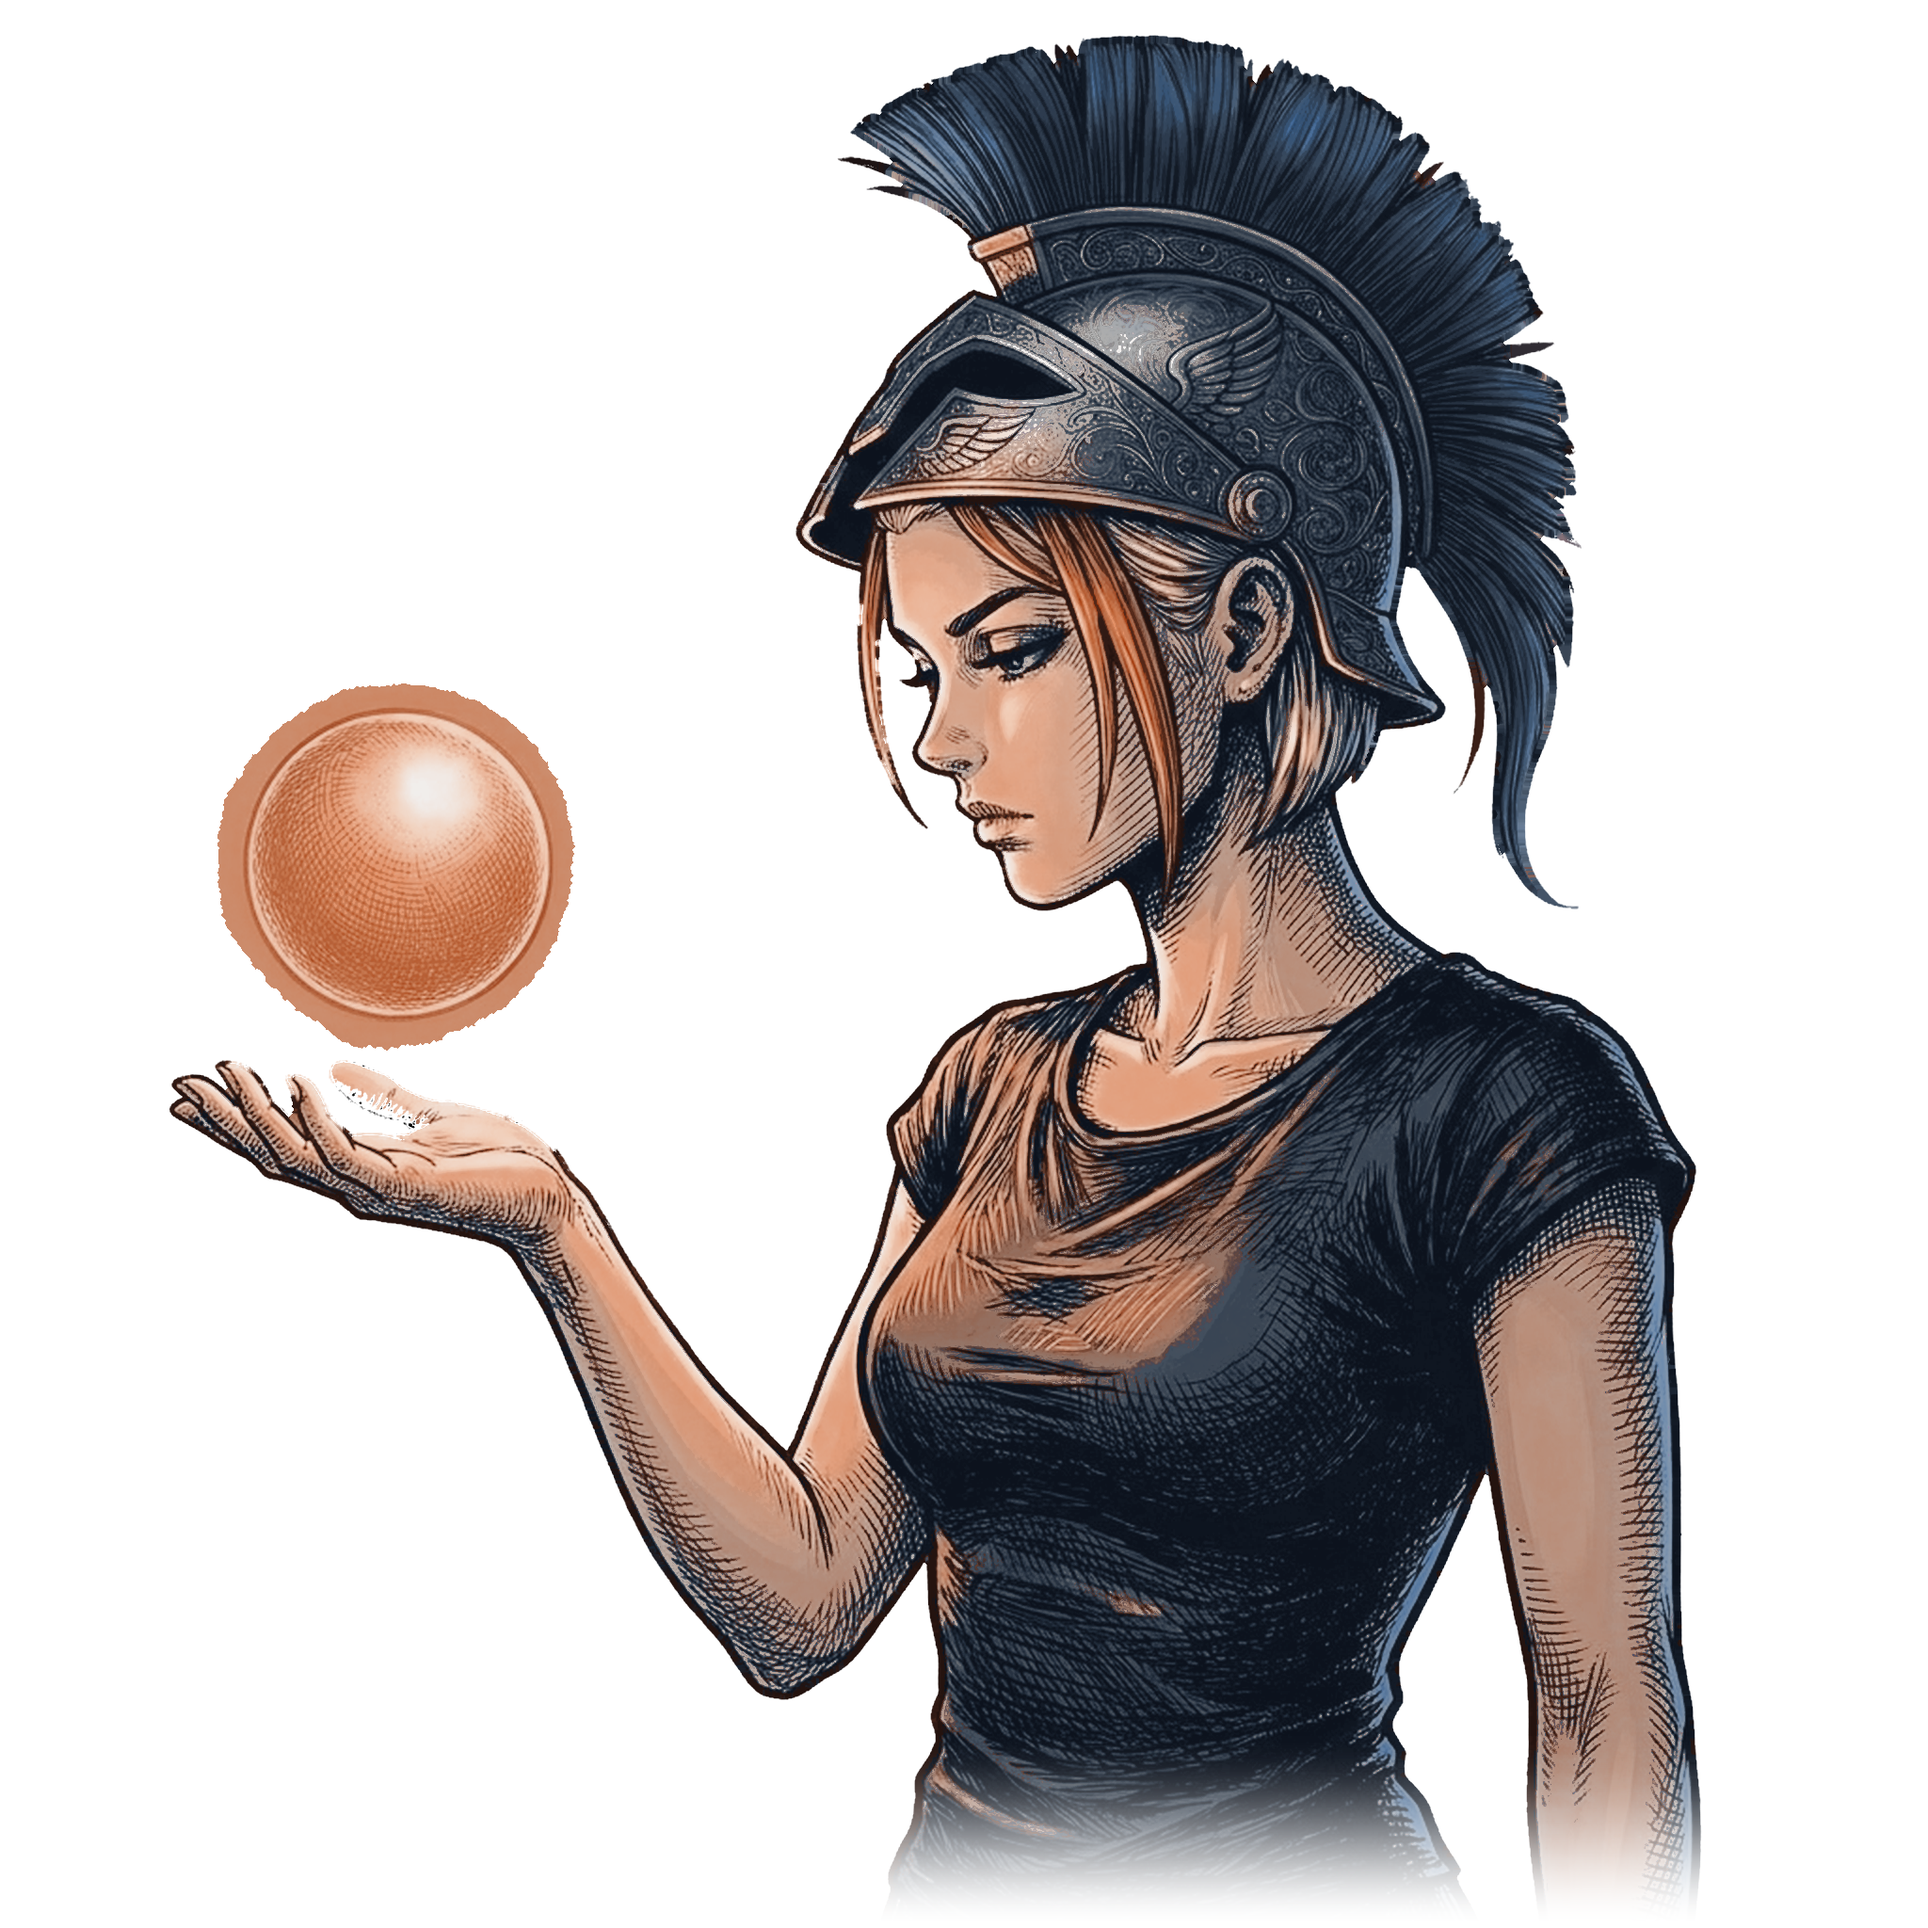
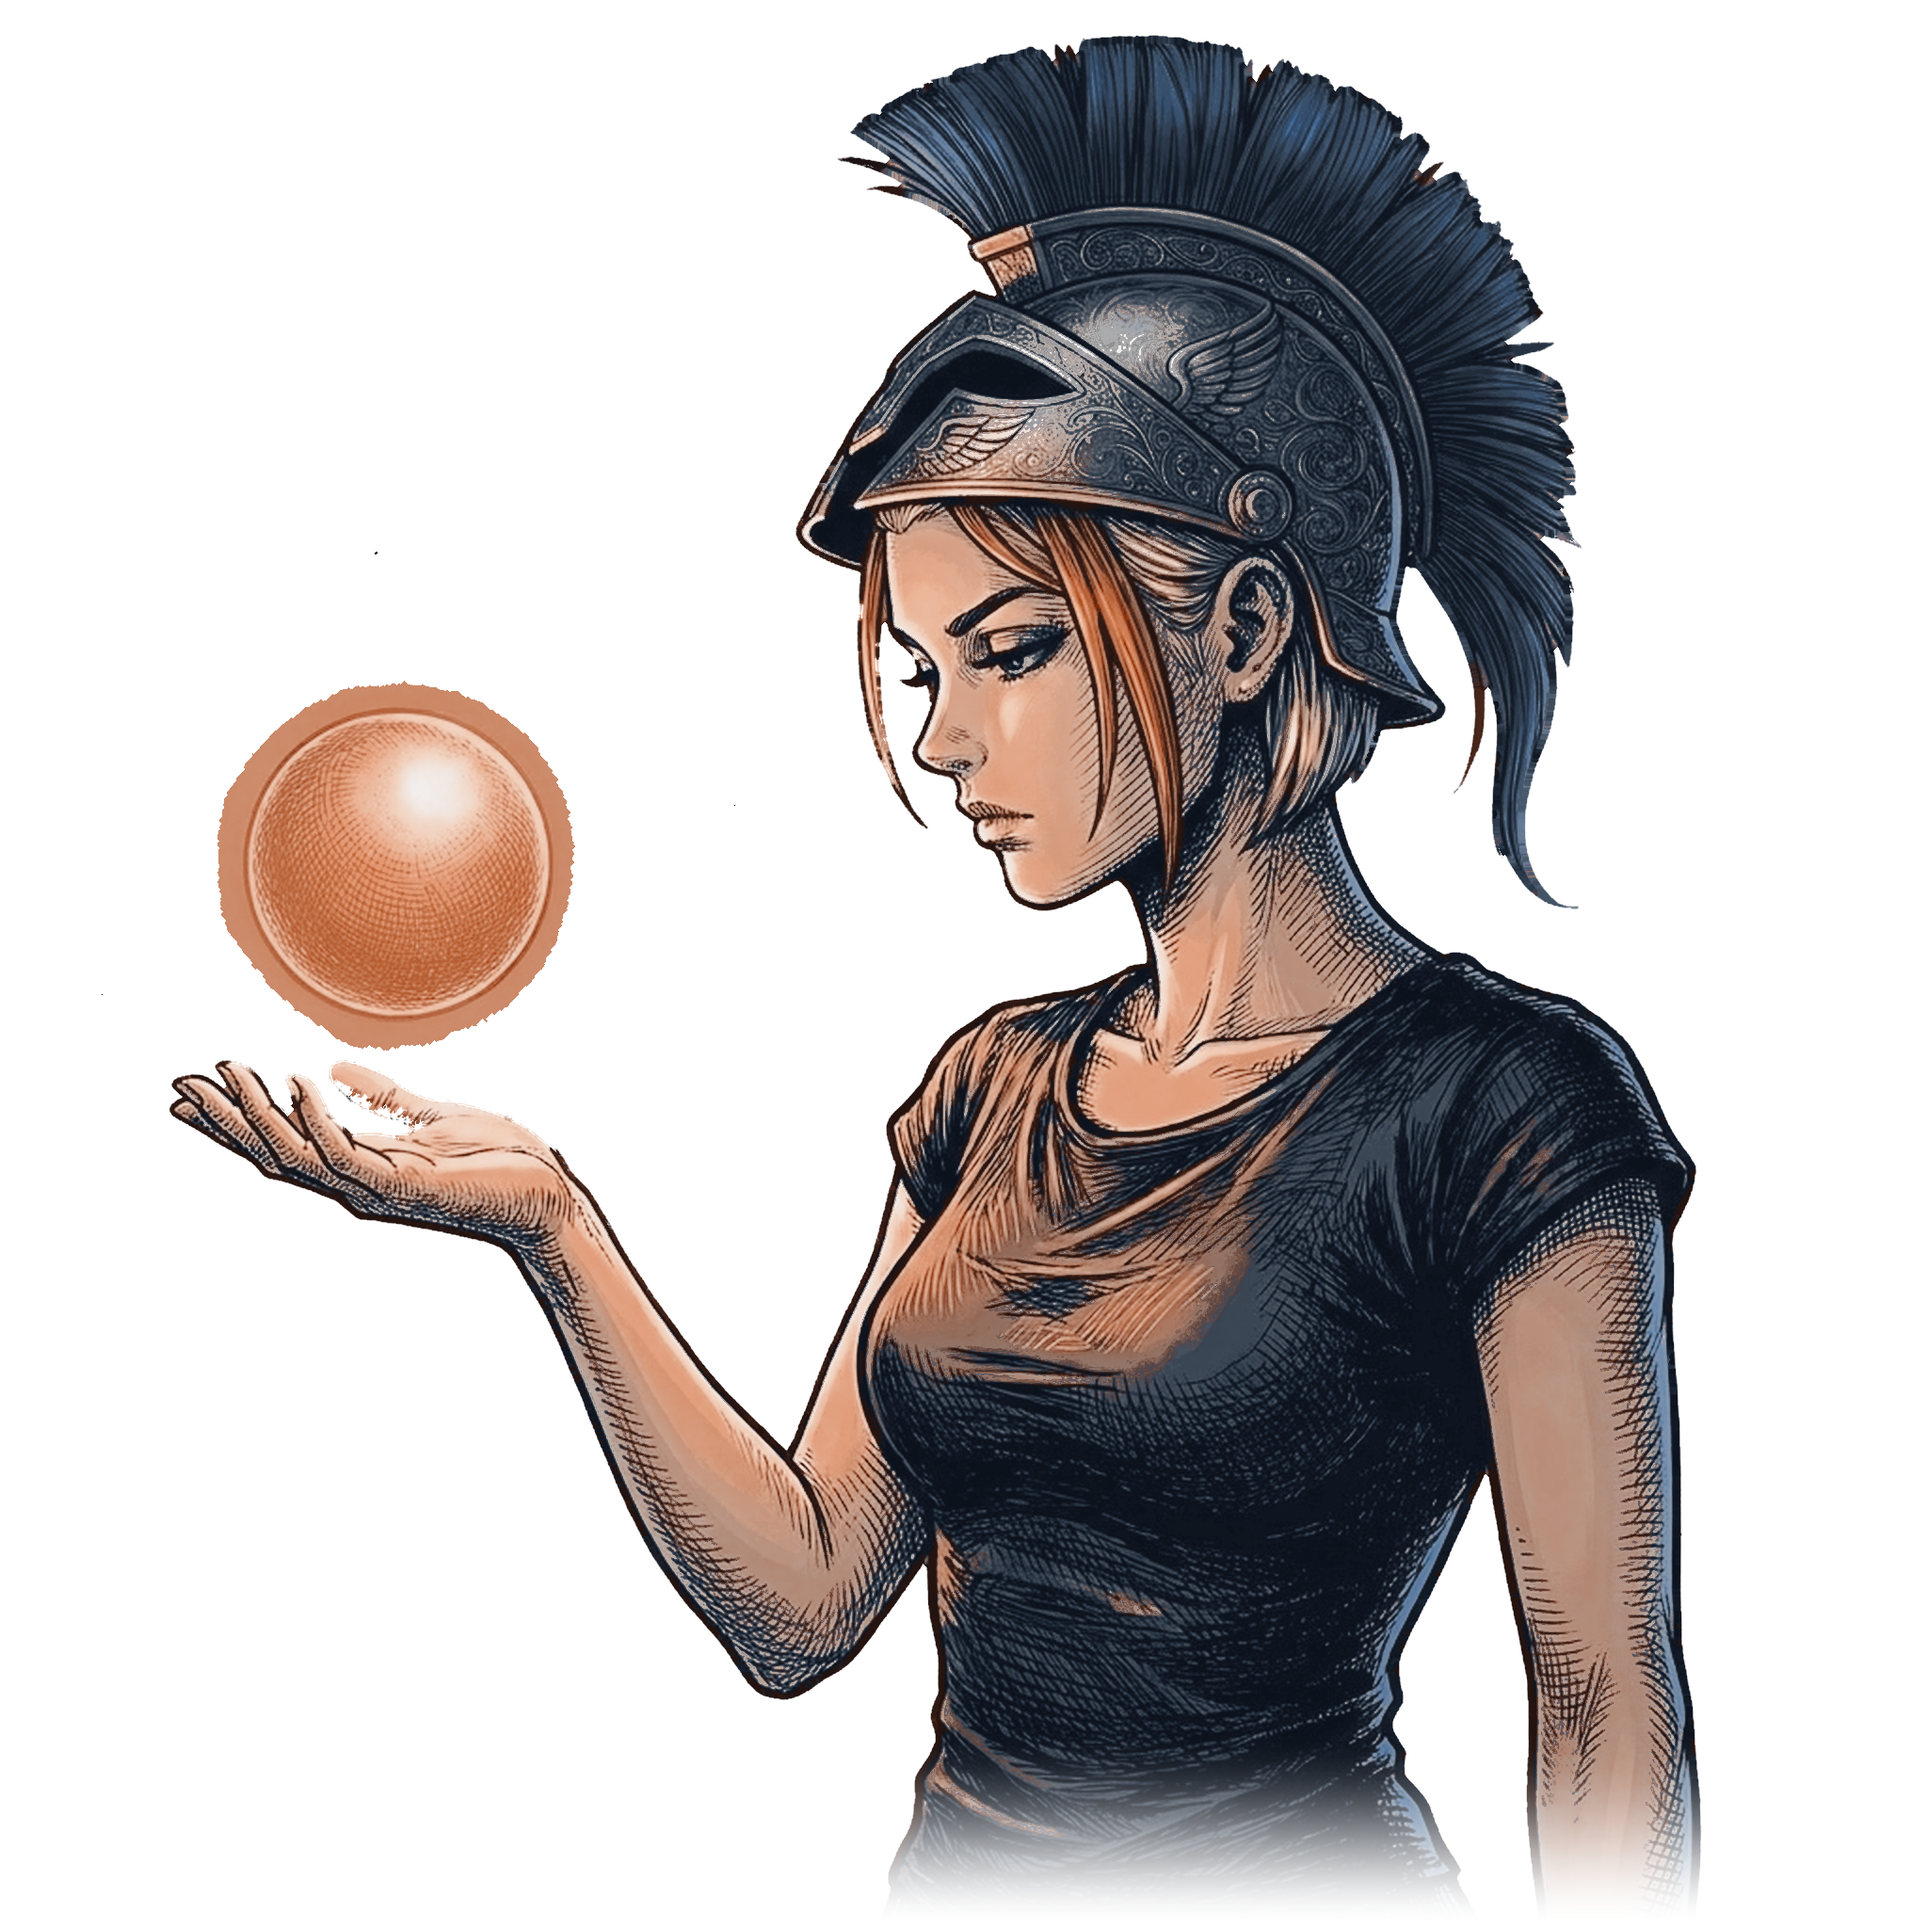
Close the ground slivers, and stop the halo drawing a second sphere
The lock over her eye is drawn as two strands with a sliver of paper
between them, and that sliver is about a pixel wide in the source. A
flood answers yes or no per pixel, so down a gap that thin it answers
yes here, no there, yes again, and the mask came back with a dotted line
of holes threaded through her hair — which composites as a chain of
background-coloured specks along the one part of the drawing with no
margin for the mistake. A gap the key cannot resolve should not be in
the mask, and the drawing does not need it there: the line between the
two strands is in the colour, which is what draws them apart. Ground
narrower than the close's diameter is filled now, one pixel of radius at
the source's own scale, 366 pixels of four million.

And the halo around the sphere was drawing a second sphere. Its radius
is `spread` sphere radii, so the stop at 30% sat within a pixel of the
sphere's own rim: the light went from bright to a third of that across
exactly the line where the sphere ends, and a change of slope on a
circle reads as an edge. It then faded to nothing by 70%, drawing
another circle out in the open where the light simply stopped. The stops
are a decay now — convex, no knee at the rim, reaching zero only at the
edge of its own box where there is nothing left to terminate.

Two other approaches to the strand's edge were tried and are not here. A
two-sided alpha band, so the flood's threshold stops binarising coverage
[…]

diff --git a/src/components/ClosingPanel.tsx b/src/components/ClosingPanel.tsx
@@ -85,8 +85,24 @@ const PRESENCE = { dark: 0.62, light: 0.4 };
  *
  * The halo is thrown *by* the sphere onto the page around her, so it is drawn
  * under the figure and reaches well past the sphere's own edge.
+ *
+ * Its falloff has to be smooth the whole way out, and the first version was not
+ * — which read as a second sphere drawn around the first. Two stops did it. The
+ * gradient's radius is `spread` sphere radii, so the stop at 30% sat within a
+ * pixel of the sphere's own rim: the halo went from bright to a third of that
+ * across exactly the line where the sphere ends, and the eye takes a change of
+ * slope on a circle as an edge. Then it faded to nothing by 70%, which drew a
+ * second circle out in the open where the light simply stopped.
+ *
+ * So the stops are a decay rather than a shape: convex, no knee at the rim, and
+ * reaching zero only at the edge of its own box, where there is nothing left to
+ * terminate. The percentages below are of that box, and `RIM` is where the
+ * sphere ends in it — named, so the one place the curve must *not* do anything
+ * interesting is visible in the numbers.
  */
 const GLOW = { spread: 3.2, base: 0.5, swing: 0.45 };
+/** Where the sphere's own edge falls in the halo gradient, as a percentage. */
+const RIM = 100 / GLOW.spread;
 /**
  * The sphere as a source rather than as a pigment.
  *
@@ -255,8 +271,17 @@ const ClosingPanel = () => {
                 translateX: "-50%",
                 translateY: "-50%",
                 opacity: pulse,
-                background:
-                  "radial-gradient(circle, hsl(var(--field-warm) / 0.9) 0%, hsl(var(--field-warm) / 0.3) 30%, transparent 70%)",
+                background: `radial-gradient(circle, hsl(var(--field-warm) / 0.62) 0%, hsl(var(--field-warm) / 0.46) ${(
+                  RIM * 0.6
+                ).toFixed(1)}%, hsl(var(--field-warm) / 0.34) ${RIM.toFixed(
+                  1,
+                )}%, hsl(var(--field-warm) / 0.17) ${(RIM * 1.5).toFixed(
+                  1,
+                )}%, hsl(var(--field-warm) / 0.06) ${(RIM * 2.1).toFixed(
+                  1,
+                )}%, hsl(var(--field-warm) / 0.015) ${(RIM * 2.6).toFixed(
+                  1,
+                )}%, rgba(0,0,0,0) 100%)`,
               }}
             />
             <motion.img

diff --git a/tools/mascot/pipeline.py b/tools/mascot/pipeline.py
@@ -7,7 +7,7 @@ sphere cut to transparent so the live collision field can show through it.
 import sys, json
 import numpy as np
 from PIL import Image
-from lib import flood, border_seed, dilate, erode, components
+from lib import flood, border_seed, dilate, erode, close, components
 
 # Render scale. The drawing is 1024 square and she is laid out as a
 # viewport-tall square, so on any 2x display she is asked for about 1800 device
@@ -133,6 +133,28 @@ bg = flood((d < LOOSE) & ((a[..., 0] - a[..., 2]) > GLOWED), bg)
 for size, comp in components((d < TIGHT) & ~bg):
     if size >= 30 * SCALE * SCALE and d[comp].mean() < TIGHT * 0.5:
         bg |= comp
+
+# Ground too narrow to key is not kept as ground.
+#
+# The lock over her eye is drawn as two strands with a sliver of paper between
+# them, and that sliver is about a pixel wide in the source. A flood has to
+# answer yes or no per pixel, so down a gap that thin it answers yes here, no
+# there, yes again — and the mask comes back with a dotted line of holes
+# threaded through her hair. Composited, those are the saw teeth: a chain of
+# background-coloured specks along the one part of the drawing thin enough to
+# have no margin for the mistake.
+#
+# A gap the key cannot resolve is a gap that should not be in the mask, and the
+# drawing does not need it to be: the ink line between the two strands is still
+# there in the *colour*, which is what actually draws them apart. So ground
+# narrower than the close's diameter is filled, and the lock becomes one clean
+# silhouette with a line down it, which is what it looks like on paper.
+#
+# One pixel of radius, which is two of width at the source's own scale. It fills
+# 1208 pixels of four million and touches nothing else — every real gap in this
+# drawing, between her fingers and between the crest's slats, is an order of
+# magnitude wider than the ones being closed.
+bg = ~close(~bg, sc(1))
 band = dilate(bg, sc(2)) & ~bg
 
 # The feather and the despill are then measured against the ground *as it is
